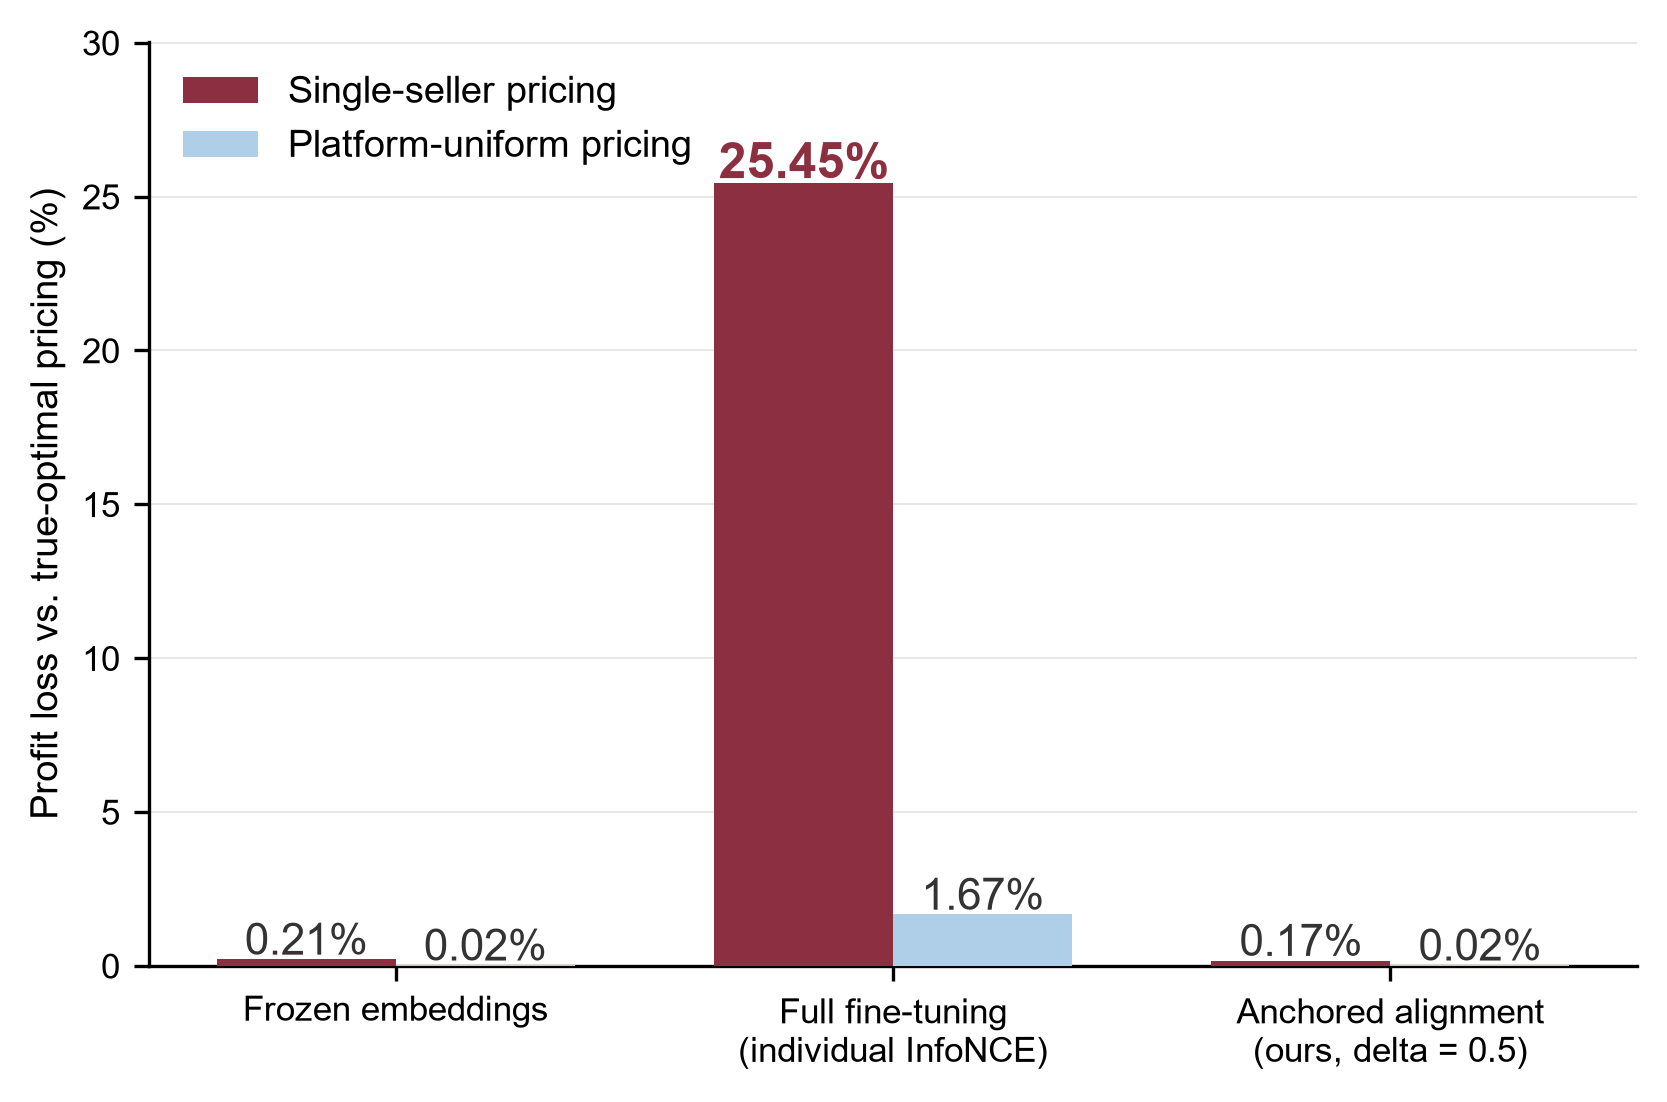
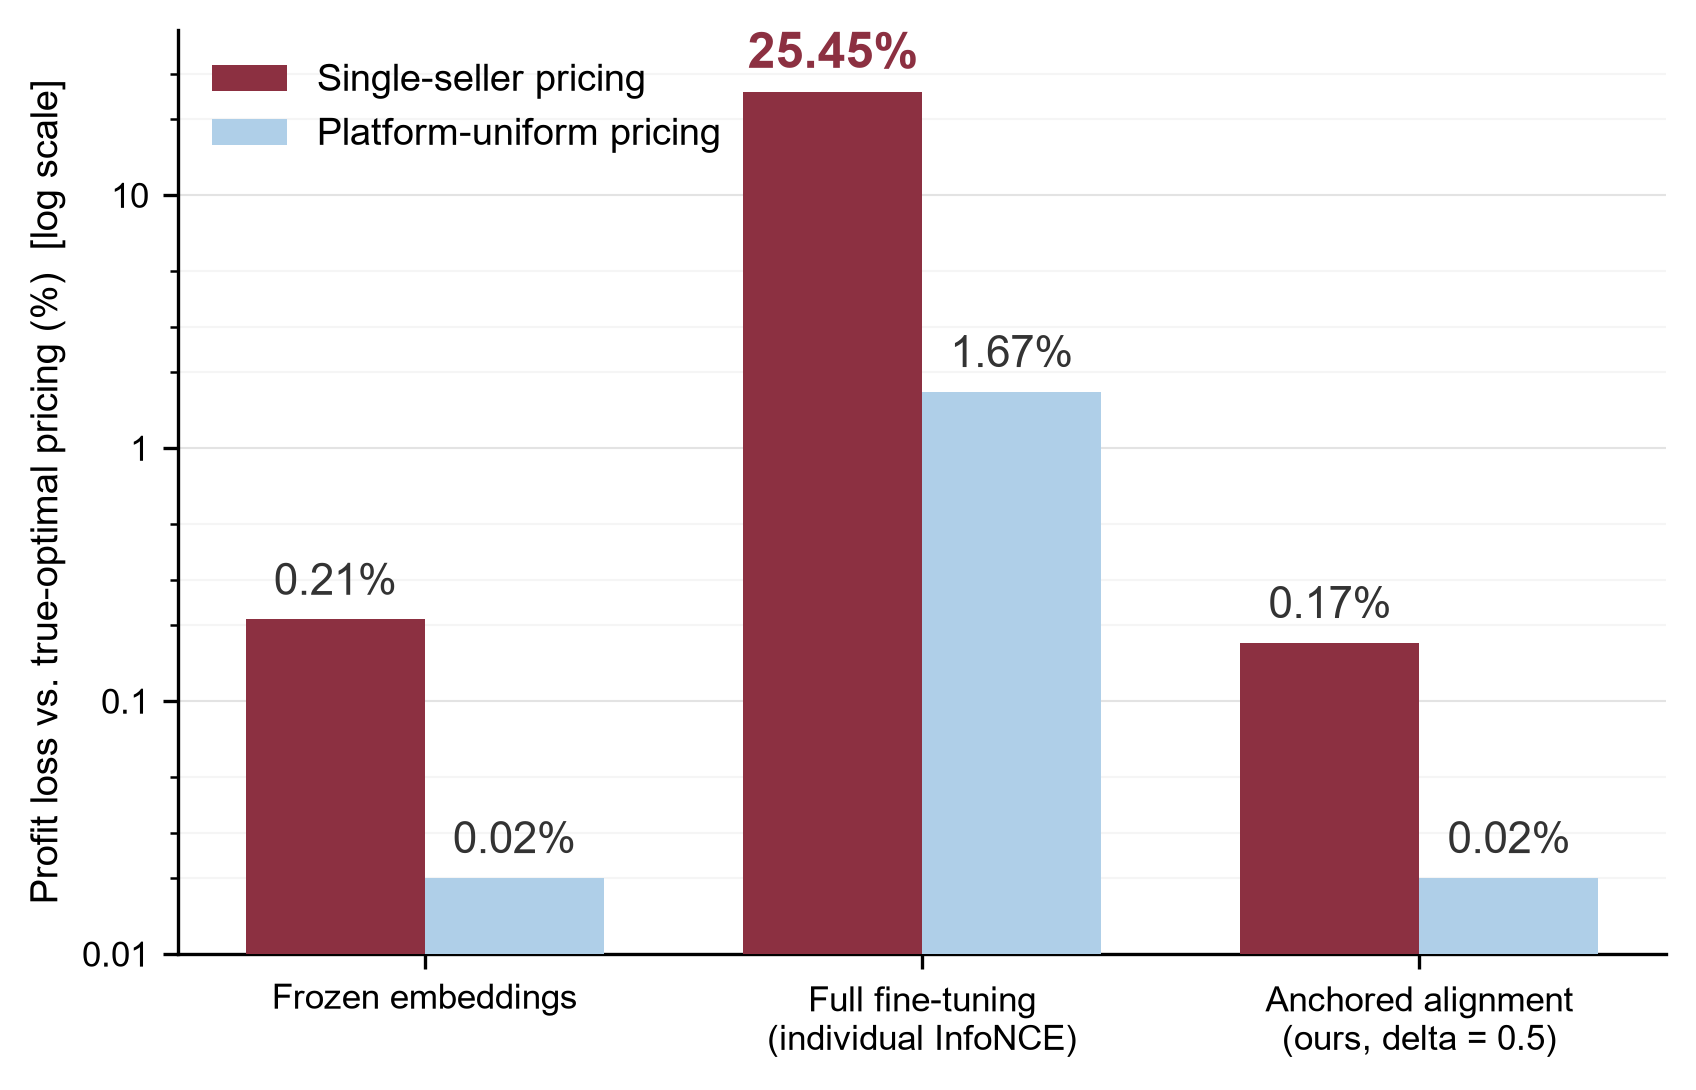
Replot fig11 profit-loss with log-scale y-axis (small bars were invisible on linear scale)

diff --git a/src/pricing_replot.py b/src/pricing_replot.py
@@ -1,0 +1,79 @@
+# -*- coding: utf-8 -*-
+"""重绘 fig11_profit_loss: Y 轴改对数刻度, 解决小柱不可见问题.
+
+背景: 0.02%-0.21% 的柱与 25.45% 主结果跨 3 个数量级, 线性轴下小柱
+高度接近 0 像素. 对数刻度 (0.01 -> 40) 下每根柱均清晰可辨, 且保留
+25.45% 的量级优势 (跨约 1.2 个 decade). 经济学期刊处理跨数量级
+利润损失的常规做法.
+
+只读 results/pricing_sim.json, 不重跑仿真.
+"""
+import os, json, sys
+import numpy as np
+
+sys.path.insert(0, os.path.dirname(os.path.abspath(__file__)))
+
+PROJ = os.path.dirname(os.path.dirname(os.path.abspath(__file__)))
+RES = os.path.join(PROJ, "results")
+FIG = os.path.join(PROJ, "figures")
+
+import matplotlib
+matplotlib.use("Agg")
+import matplotlib.pyplot as plt
+from matplotlib.ticker import FixedLocator, NullFormatter
+from fig_style import OI, apply_rc, save
+
+
+def main():
+    with open(os.path.join(RES, "pricing_sim.json"), encoding="utf-8") as f:
+        out = json.load(f)
+    rows = out["results"]
+
+    apply_rc()
+    disp = {"frozen": "Frozen embeddings",
+            "fullft": "Full fine-tuning\n(individual InfoNCE)",
+            "anchored": "Anchored alignment\n(ours, delta = 0.5)"}
+    labels = [disp[m] for m in rows]
+    l_plat = [rows[m]["platform"]["loss_pct"] for m in rows]
+    l_single = [rows[m]["single"]["loss_mean_pct"] for m in rows]
+
+    x = np.arange(3); w = 0.36
+    fig, ax = plt.subplots(figsize=(6.4, 4.0))
+    b1 = ax.bar(x - w / 2, l_single, w, label="Single-seller pricing",
+                color=OI["wine"], zorder=3)
+    b2 = ax.bar(x + w / 2, l_plat, w, label="Platform-uniform pricing",
+                color=OI["lblue"], zorder=3)
+
+    ax.set_yscale("log")
+    ax.set_ylim(0.01, 45)               # 0.02% 距轴底仍有 2 倍高度, 可见
+    # 主刻度只留 decade: 0.01 / 0.1 / 1 / 10, 次刻度线弱化作网格
+    ax.yaxis.set_major_locator(FixedLocator([0.01, 0.1, 1, 10]))
+    ax.yaxis.set_major_formatter(
+        plt.FuncFormatter(lambda v, _: f"{v:g}"))
+    ax.yaxis.set_minor_locator(FixedLocator(
+        [0.02, 0.03, 0.05, 0.2, 0.3, 0.5, 2, 3, 5, 20, 30]))
+    ax.yaxis.set_minor_formatter(NullFormatter())
+    ax.grid(axis="y", which="major", alpha=0.35, zorder=0)
+    ax.grid(axis="y", which="minor", alpha=0.12, zorder=0)
+
+    for bars in (b1, b2):
+        for b in bars:
+            v = b.get_height()
+            emph = v > 20     # 25.45% 主结果柱：加粗放大，一眼可见
+            ax.annotate(f"{v:.2f}%",
+                        (b.get_x() + b.get_width() / 2, v * 1.25),
+                        ha="center", fontsize=12 if emph else 10.5,
+                        fontweight="bold" if emph else "normal",
+                        color=OI["wine"] if emph else "#333333",
+                        zorder=4)
+
+    ax.set_xticks(x, labels)
+    ax.set_ylabel("Profit loss vs. true-optimal pricing (%)  [log scale]")
+    ax.legend(fontsize=9, loc="upper left")
+    save(fig, FIG, "fig11_profit_loss")
+    plt.close(fig)
+    print("replotted:", os.path.join(FIG, "fig11_profit_loss.png"))
+
+
+if __name__ == "__main__":
+    main()
